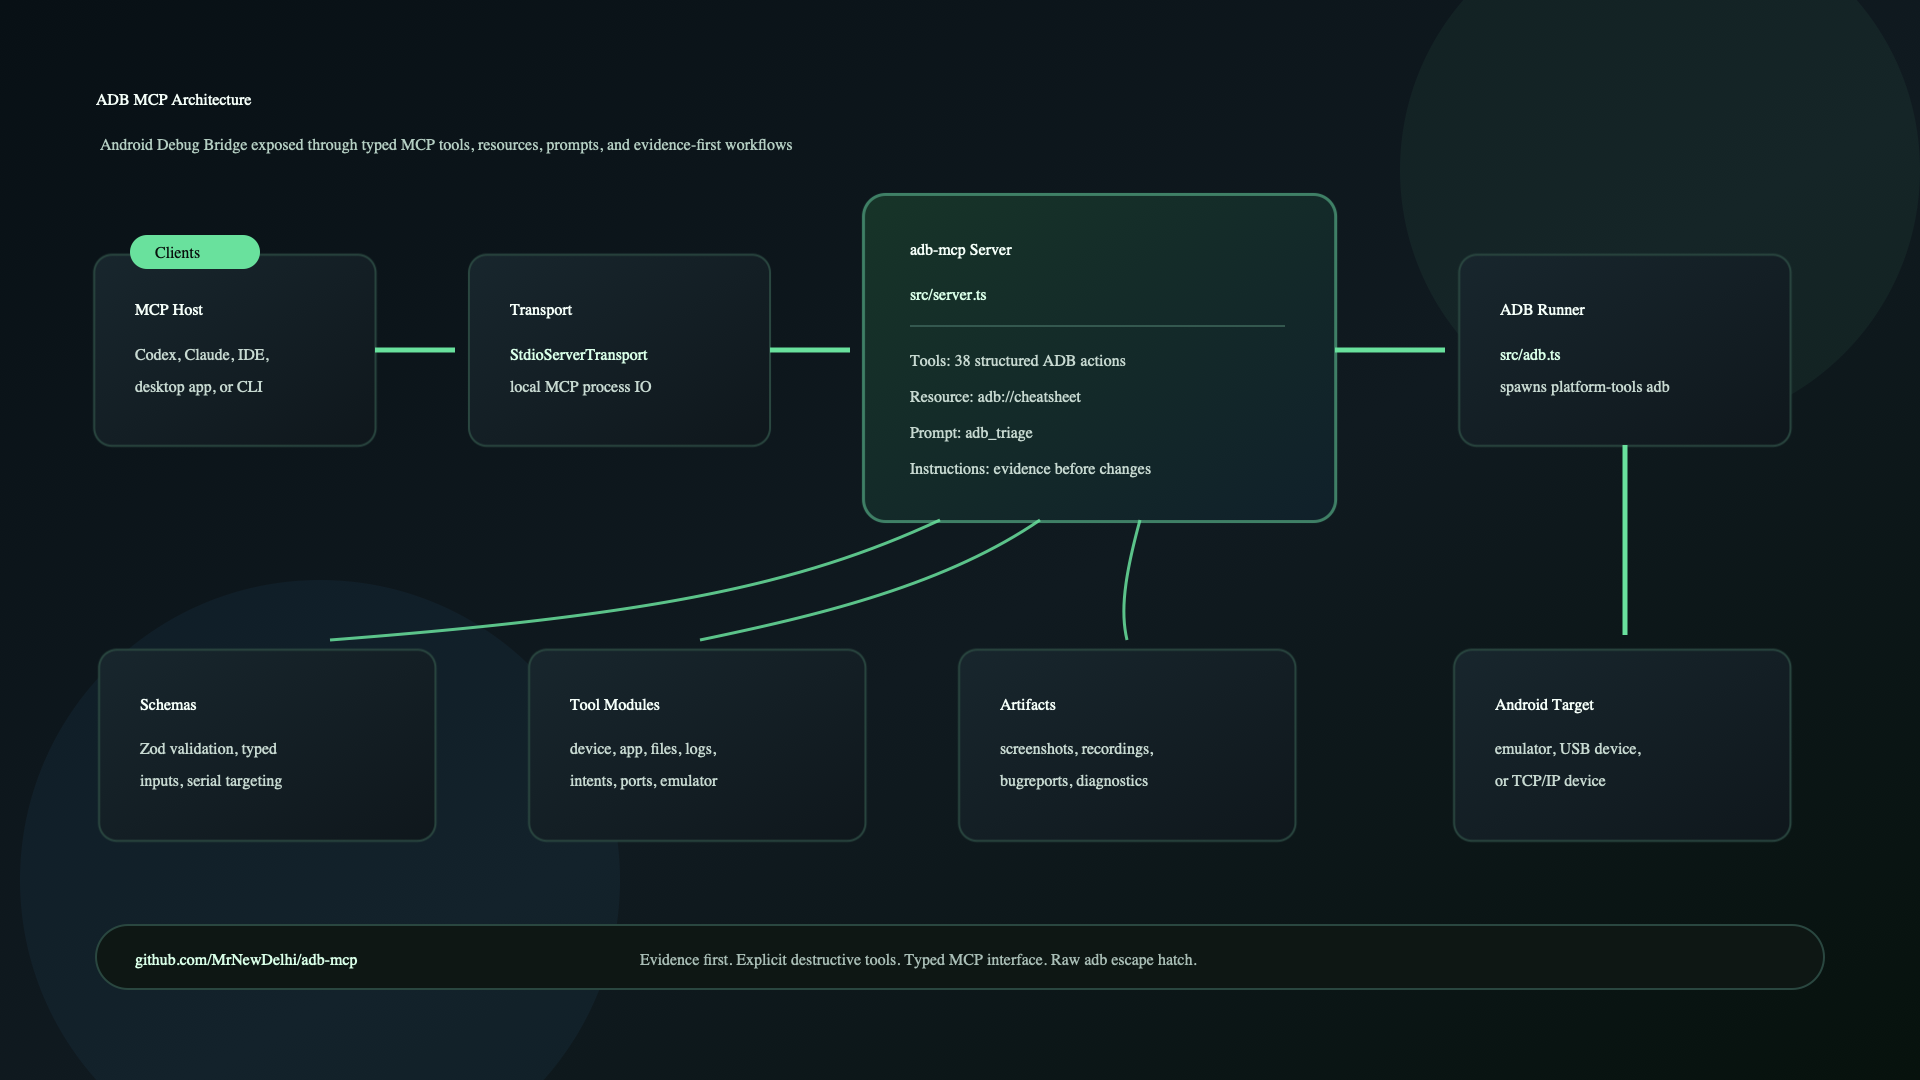
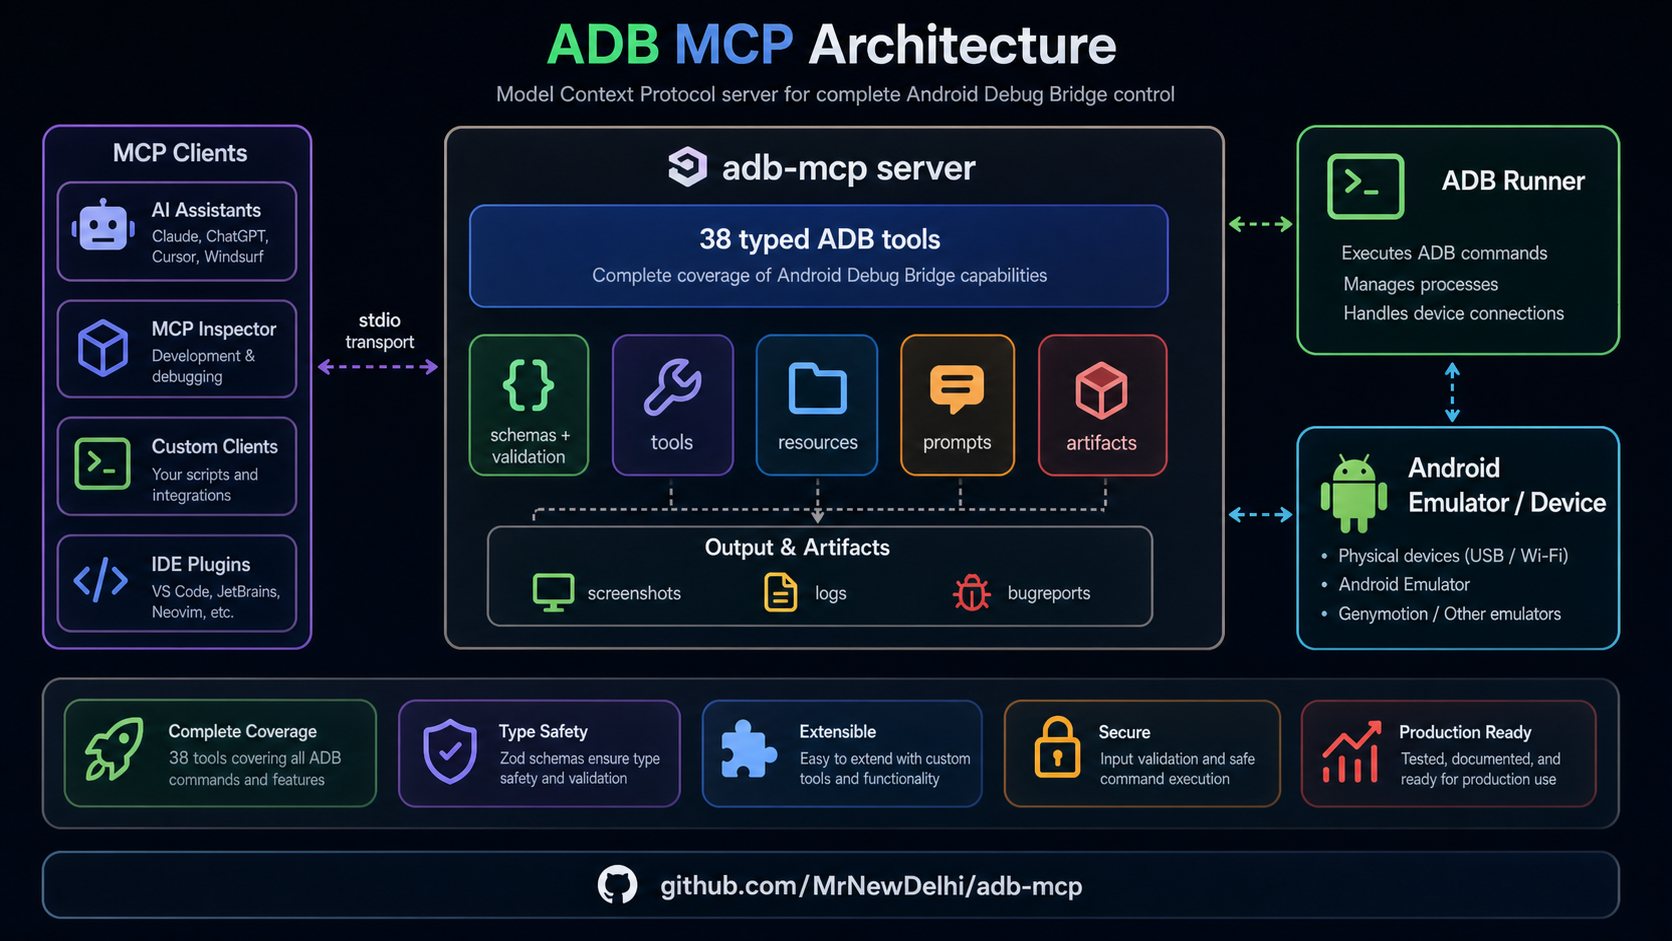
Recreate architecture diagram with imagegen

Changed region(s): [[0.0, 0.0, 1.0, 0.9554], [0.0311, 0.9554, 0.311, 1.0]]

diff --git a/README.md b/README.md
@@ -351,7 +351,7 @@ The `skills/adb-mcp` folder contains a Codex-compatible skill that tells agents 
 - **A prompt** named `adb_triage`
 - **Server instructions** that clients may include in model context
 
-![ADB MCP architecture](docs/assets/adb-mcp-architecture.svg)
+![ADB MCP architecture](docs/assets/adb-mcp-architecture.png)
 
 If adding an HTTP transport later, add authentication, host header validation, CORS review, and DNS rebinding protection before exposing it.
 

diff --git a/docs/architecture.md b/docs/architecture.md
@@ -1,6 +1,6 @@
 # adb-mcp Architecture
 
-![ADB MCP architecture](assets/adb-mcp-architecture.svg)
+![ADB MCP architecture](assets/adb-mcp-architecture.png)
 
 `adb-mcp` is organized around MCP primitives and ADB execution boundaries.
 
